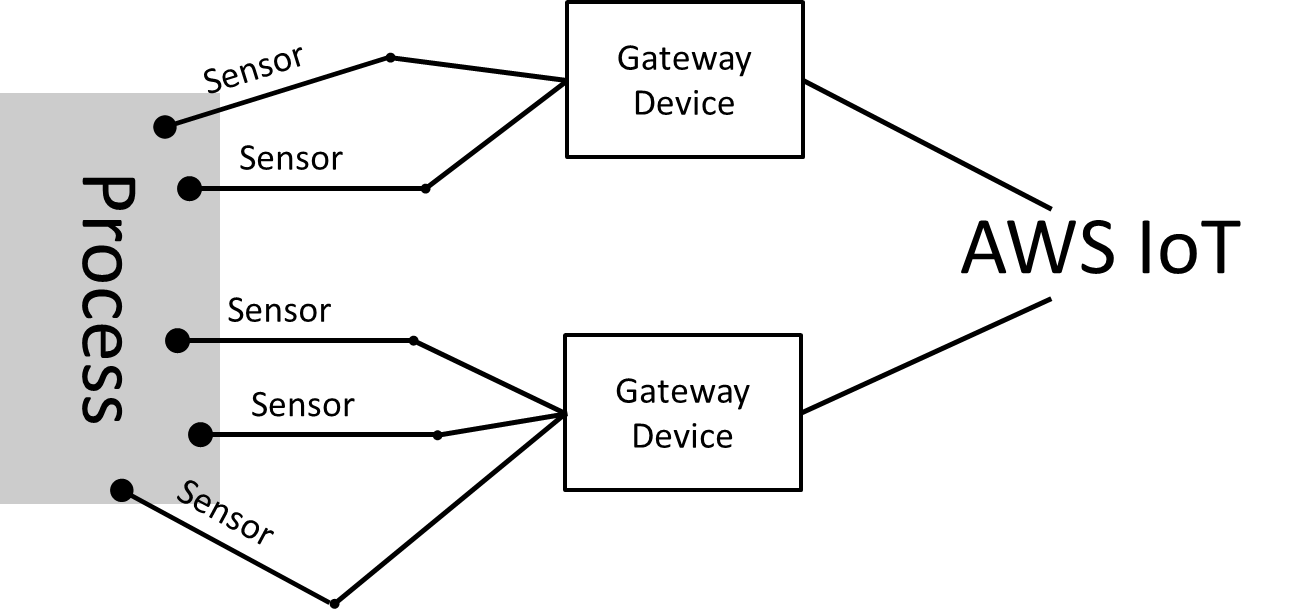
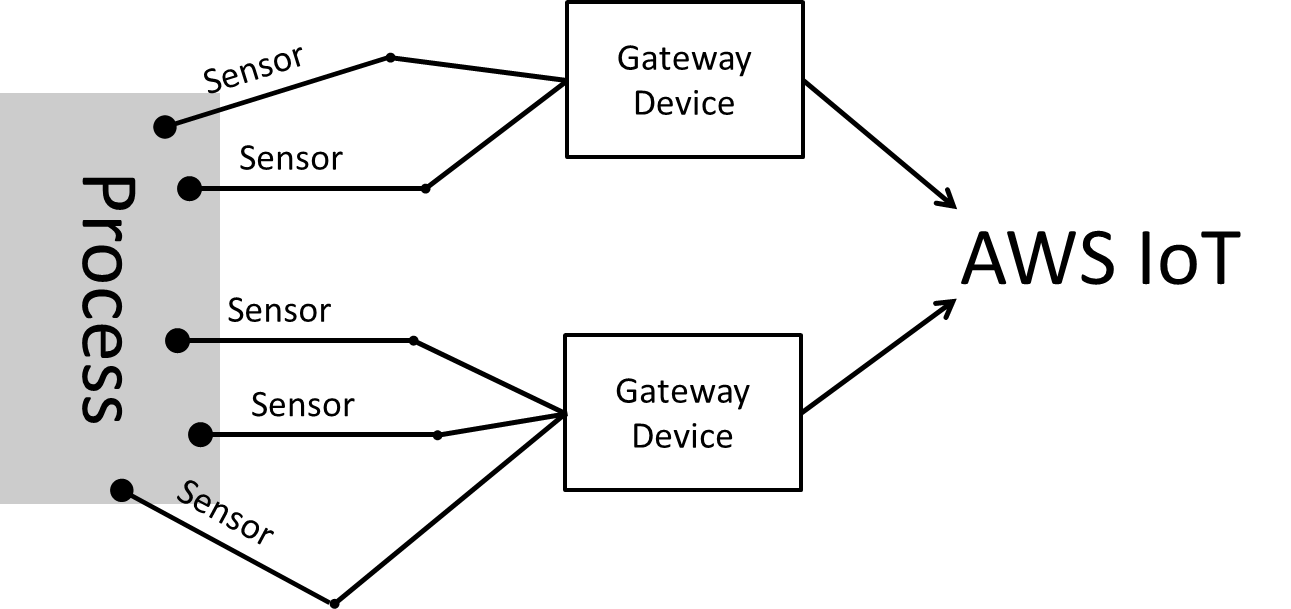
added in production discussion for pubsub

diff --git a/pubsub.md b/pubsub.md
@@ -12,10 +12,17 @@ while true
     pack it up
     publish it
 ```
+For the demonstration are once again using the Bosch BME680 air quality sensor connected to a Raspberry Pi model 3B. The BME680 does four different measurements, and we will utilise the temperature, pressure, and humidity sensing capabilities. The Pi is just there to query the sensor and run the AWS IoT SDK. It essentially plays the part of a microcontroller, and so anything we accomplish here can be done with a microcontroller or any other compute device. In the final section of this demonstration we will discuss some of the additional considerations for a similar setup in an actual industrial setting.
+<div align="center">
+	<img height="200" src="images/iotaws_pubsub.png" alt="pubsub overview">
+  <br>
+  Schematic of the setup we are emulating in this demonstration.
+</div>
+
 Connecting to AWS IoT and publishing messages were covered in the [previous](https://github.com/AnHosu/iot_poc/blob/master/publishing.md "simple publishing") demonstration. In this demonstration, we focus on subscribing to messages and combining publishing and subscribing within one client.
 # Registering the Sensor in IoT Core
-Just as it is the case with publishing, we need to register the device that will subscribe to messages. We can use the same Thing and certificate as before, but we need to change the policy to allow subscription through using that certificate. 
-For subscription to work, we need to add two additional statements to the policy. We need to allow `iot:Subscribe` to a topic filter and allow `iot:Receive` for a specific topic. The distinction between topic and topic filter can seem a little nebulous, but imagine a manufacturing line with hundreds of sensors publishing to topics with the prefix `factoryA/line22`. Then we might create a policy that allows subscription to all the topics `factoryA/line22/*`, where the asterisk is a wildcard, and policies that allow receiving of messages to specific topics such as `factoryA/line22/milling/torque`. 
+Just as it is the case with publishing, we need to register the device that will subscribe to messages. We can use the same Thing and certificate as in the [previous demonstration](publishing#registering-the-sensor-in-iot-core), but we need to change the policy to allow subscription through using that certificate. 
+For subscription to work, we need to add two additional statements to the policy. We need to allow `iot:Subscribe` to a topic filter and allow `iot:Receive` for a specific topic. The distinction between topic and topic filter can seem nebulous, but imagine a manufacturing line with hundreds of sensors publishing to topics with the prefix `factoryA/line22`. Then we might create a policy that allows subscription to all the topics `factoryA/line22/*`, where the asterisk is a wildcard, and policies that allow receiving of messages to specific topics such as `factoryA/line22/milling/torque`. 
 Here is an example of such a policy document that allows subscription and receiving to a single topic.
 ```json
 {
@@ -70,15 +77,15 @@ Like publishing, subscribing can be done with just one line of code. We just nee
 AWSIoTMQTTClient.subscribe(topic, 1, callback)
 ```
 The first argument is the topic to listen to. Note that the certificate provided to the client must have a policy that allows subscription to that specific topic.<br>
-The second argument is the Quality of Service, [just as for publishing](https://github.com/AnHosu/iot_poc/blob/master/publishing.md#quality-of-service-qos), 0 means at most once and 1 means at least once. Remember that now the roles are reversed, and the client we are configuring is the one that will have to send a confirmation of a message received. Fortunately that is all taken care of behind the scenes.<br>
-The third argument is a custom function that is called whenever a message is received on the topic. This function should follow the pattern `callback_function(client, userdata, message)`. `message` will then be an object containing the topic, `message.topic`, and the body, `message.payload`, of the message. The two variables `client` and `userdata` are there for compatibility of the callback stack. They are flagged for deprecation, and it is not recommended to rely on them. The simplest thing to do when receiving a message, save for doing nothing at all, would be to print the message. Such a function might look like this
+The second argument is the Quality of Service, [just as for publishing](publishing.md#quality-of-service-qos), 0 means that the message is delivered at most once and 1 means at least once. Remember that now the roles are reversed, and the client we are configuring is the one that will receive the message have to send a confirmation of a message received. Fortunately that is all taken care of behind the scenes in the client we are configuring.<br>
+The third argument is a custom function that is called whenever a message is received on the topic. This function should follow the pattern `callback_function(client, userdata, message)`. `message` will then be an object containing the topic, `message.topic`, and the body, `message.payload`, of the message. The two variables `client` and `userdata` are there for compatibility of the callback stack; they are flagged for deprecation, and it is not recommended to rely on them. The simplest thing to do when receiving a message, save for doing nothing at all, would be to print the message. Such a function might look like this
 ```python
 def callback_function(client, userdata, message):
     print("Received a new message:\n{0}".format(message.payload))
     print("from topic:\n{0}".format(message.topic))
 ```
 In the next section, we will use this function to do cool things.<br>
-The subscription can be set up as soon as connection between the client and AWS IoT is established. The client will then listen for any published messages for as long as it lives or until the subscription is terminated. This also means that we do not have to listen in an infinite loop like we were publishing in an infinite loop earlier.<br>
+The subscription can be set up as soon as connection between the client and AWS IoT is established. The client will then listen for any published messages for as long as it lives or until the subscription is terminated. This also means that we do not have to listen in an infinite loop like during publishing.<br>
 With this, we have everything needed to set up a subscription:
 ```python
 # Configure client and connect
@@ -202,4 +209,22 @@ while True:
         myAWSIoTMQTTClient.publish(topic, messageJson, 1)
         print('Published topic %s: %s\n' % (topic, messageJson))
 ```
-The whole script is [here](https://github.com/AnHosu/iot_poc/blob/master/simple_pubsub.py "simple pubsub example"). When run, it will start to listen to the topic subscibed to. Once it receives a message with instructions it will start querying the sensor as instructed and publish. This way we can toggle between different sensors and even shut off messages when we do not need them and save some money.
+The whole script is [here](simple_pubsub.py "simple pubsub example"). When run, it will start to listen to the topic subscibed to. Once it receives a message with instructions it will start querying the sensor as instructed and publish. This way we can toggle between different sensors and even shut off messages when we do not need them and save some money.<br>
+This might not be exactly the thing that you want your device to do, but now you have the building blocks to create whatever response you want. As a challenge, why not try to set up a topic that controls how often values are published from the device? With such functionality, you could adjust the tradeoff between storage cost and data granularity over time.
+# In Production
+Besides the considerations mentioned in the [previous demonstration](publishing.md#in-production), a few additional considerations apply now that we are able to establish two way communication with our devices in the IoT.
+## Applications
+First the fun part. What might we actually do with this added capability?
+### Alternate data frequency
+If you store and process less data, it will cost you less but will also give the data scientists less of that precious data paydirt. You might want to change the frequency of the data according to current business priorities. You will almost definitely want to change the rate to respond to the process. A simple on/off switch for when the process is not running will work wonders. I would, however, love to see a combined IoT and analytics application that chooses the sampling frequency based on variance in the data and automatically adjusts sampling accordingly.
+### Have an equipment-debugging mode
+The idea of a debugging mode is common in digital applications. IoT means brining the digital world to our physical equipment. Imagine having a debugging mode for our manufacturing equipment. Specifically, this could be a toggleable mode with telemetry from additional sources and at a high frequency.
+### Respond to low-frequency changes
+Control loop managed by PLCs do a great job of keeping a process in control and running smoothly and continuosly. One thing they do not do, however, is respond well to low frequency changes and business-induced changes. Think of a batch changeover or the change between product variants - it takes time and effort to get the equipment running smoothly again. If you have actuating devices as part of the IoT you can start having your manufacturing equipment respond to business priorities or just deal with changes that the PLC does not consider. An example could be an automatic change of settings on a change of product variant according to the predictions of a simulation or a model.
+## Security
+If you are in manufacturing or some other regulated context, it might sound scary to have a two way communication between your site and the cloud. In all fairness, this could pose a security risk, the magnitude of which depends on the extend of the liberties given to the IoT and connected applications. As developers, there are a number of considerations we can make to increase the robustness of the IoT and lessen the burden on ourselves when we maintain the application. This is by no means a full list, but just a few obvious starting points.
+### Do not couple control loop and IoT
+Limit the power of actions
+Reserved topics for action commands
+Read about security best practices
+## Topic Management

diff --git a/publishing.md b/publishing.md
@@ -11,8 +11,8 @@ while true
 ```
 For the demonstration we will be using the Bosch BME680 air quality sensor connected to a Raspberry Pi model 3B. The BME680 does four different measurements, but for this case we will only be measuring and publishing the temperature. The Pi is just there to query the sensor and run the AWS IoT SDK. It essentially plays the part of a microcontroller, and so anything we accomplish here can be done with a microcontroller or any other compute device. In the final section of this demonstration we will discuss some of the additional considerations for a similar setup in an actual industrial setting.
 <div align="center">
-	<img height="200" src="images/iotaws_overview.png" alt="Data Engineering Cookbook">
-	<img height="200" src="images/hardware_setup.jpg" alt="Data Engineering Cookbook">
+	<img height="200" src="images/iotaws_overview.png" alt="IoT overview">
+	<img height="200" src="images/hardware_setup.jpg" alt="Hardware setup">
   <br>
   Schematic of the setup we are emulating in this demonstration and a picture of the actual hardware I used for developing the examples.
 </div>
